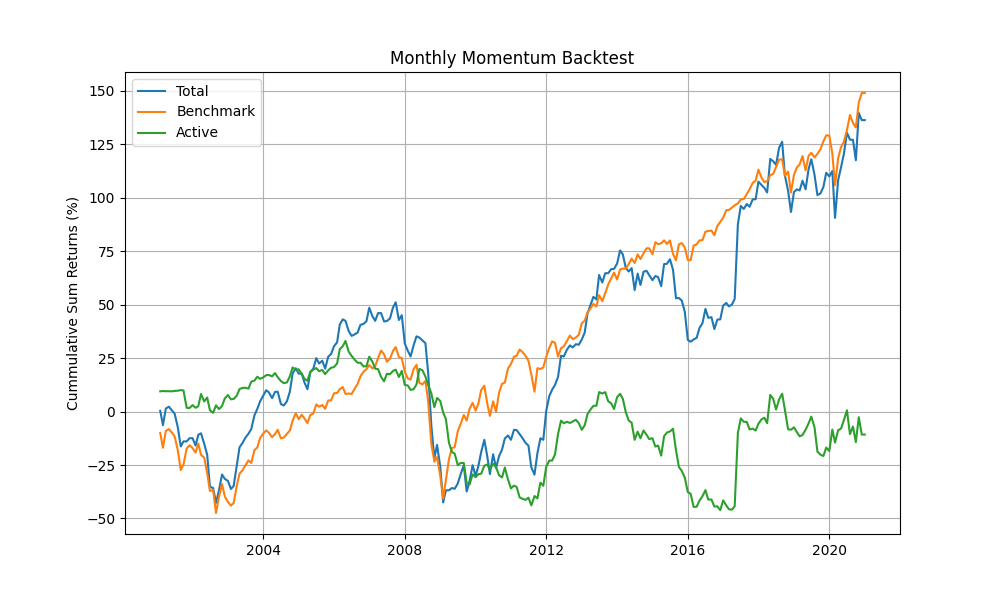
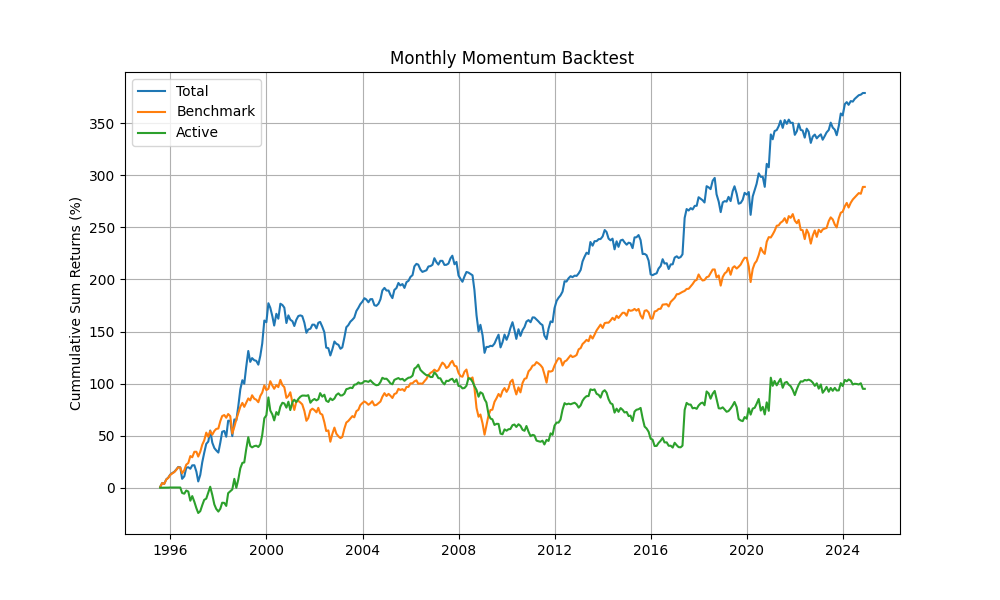
Full sample monthly momentum backtest.

diff --git a/research/classic_momentum/monthly_momentum_summary.py b/research/classic_momentum/monthly_momentum_summary.py
@@ -6,34 +6,35 @@ from silverfund.enums import Compounding, Interval
 from silverfund.performance import Performance
 from silverfund.records import AssetReturns
 
-folder = "research/classic_momentum/results/"
+if __name__ == "__main__":
+    folder = "research/classic_momentum/results/"
 
-# Asset returns (result of backtester)
-data_file_path = folder + "monthly_momentum_bt.parquet"
-asset_returns = AssetReturns(returns=pl.read_parquet(data_file_path))
+    # Asset returns (result of backtester)
+    data_file_path = folder + "monthly_momentum_bt.parquet"
+    asset_returns = AssetReturns(returns=pl.read_parquet(data_file_path))
 
-# Performance instance
-performance = Performance(
-    start_date=date(2001, 1, 1),
-    end_date=date(2020, 12, 31),
-    interval=Interval.MONTHLY,
-    asset_returns=asset_returns,
-    annualize=True,
-)
+    # Performance instance
+    performance = Performance(
+        start_date=date(1995, 7, 31),
+        end_date=date(2024, 12, 31),
+        interval=Interval.MONTHLY,
+        asset_returns=asset_returns,
+        annualize=True,
+    )
 
-# Chart
-title = "Monthly Momentum Backtest"
-decomposed_plot_file_path = folder + "monthly_momentum.png"
-performance.plot_returns(
-    compounding=Compounding.SUM,
-    title=title,
-    decompose=True,
-    save_file_path=decomposed_plot_file_path,
-)
+    # Chart
+    title = "Monthly Momentum Backtest"
+    decomposed_plot_file_path = folder + "monthly_momentum.png"
+    performance.plot_returns(
+        compounding=Compounding.SUM,
+        title=title,
+        decompose=True,
+        save_file_path=decomposed_plot_file_path,
+    )
 
-# Table
-summary_file_path = folder + "monthly_momentum.txt"
-performance.summary(summary_file_path)
+    # Table
+    summary_file_path = folder + "monthly_momentum.txt"
+    performance.summary(summary_file_path)
 
-# Print summary
-print(performance.summary())
+    # Print summary
+    print(performance.summary())

diff --git a/research/classic_momentum/monthly_momentum_bt.py b/research/classic_momentum/monthly_momentum_bt.py
@@ -1,9 +1,12 @@
+import os
 from datetime import date
 from functools import partial
+from pathlib import Path
 
+import silverfund.data_access_layer as dal
 from silverfund.alphas import grindold_kahn
 from silverfund.backtester import Backtester
-from silverfund.constraints import *
+from silverfund.constraints import full_investment, long_only, no_buying_on_margin, unit_beta
 from silverfund.enums import Interval
 from silverfund.portfolios import mean_variance_efficient
 from silverfund.scores import z_score
@@ -12,8 +15,8 @@ from silverfund.strategies import Strategy
 
 if __name__ == "__main__":
     # Date range
-    start_date = date(2001, 1, 1)
-    end_date = date(2020, 12, 31)
+    start_date = date(1995, 7, 31)
+    end_date = date(2024, 12, 31)
     interval = Interval.MONTHLY
 
     # Define strategy
@@ -30,8 +33,8 @@ if __name__ == "__main__":
         ],
     )
 
+    # Create training data
     universe = dal.load_universe(interval=interval, start_date=start_date, end_date=end_date)
-
     training_data = universe.join(
         dal.load_barra_returns(interval=interval, start_date=start_date, end_date=end_date),
         on=["date", "barrid"],
@@ -41,9 +44,12 @@ if __name__ == "__main__":
     # Instantiate backtester
     bt = Backtester(interval=interval, start_date=start_date, end_date=end_date, data=training_data)
 
-    # Run sequentially
-    asset_returns = bt.run_sequential(strategy)
+    # Run in parallel
+    asset_returns = bt.run_parallel(strategy)
     print("-" * 20 + " Asset Returns " + "-" * 20)
     print(asset_returns)
 
-    asset_returns.write_parquet("research/classic_momentum/results/monthly_momentum_bt.parquet")
+    # Save results
+    folder = Path("research/classic_momentum/results")
+    os.makedirs(folder, exist_ok=True)
+    asset_returns.write_parquet(folder / "monthly_momentum_bt.parquet")
